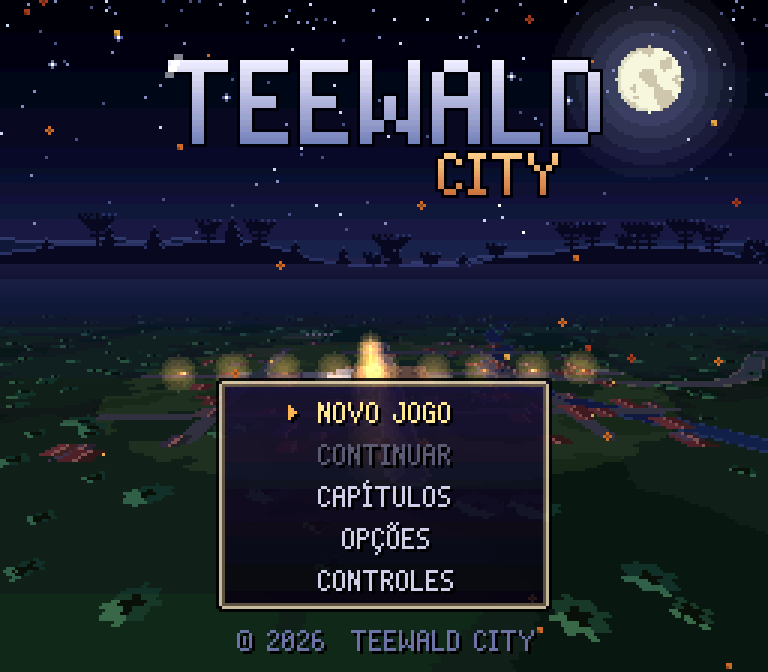
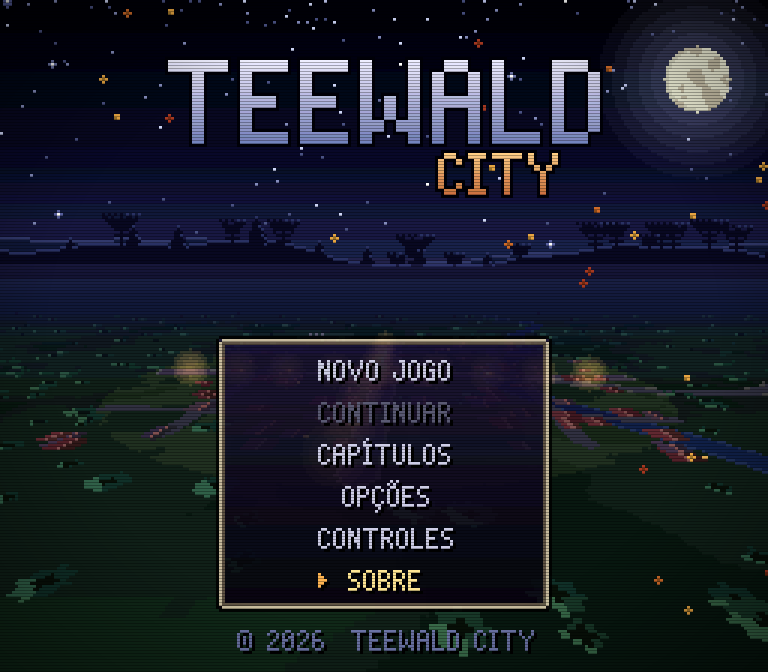
Atualização automática (2026-10-11 09:55) — 3 arquivo(s)
README.md
docs/img/sobre.png
docs/img/titulo-menu.png

diff --git a/README.md b/README.md
@@ -79,6 +79,7 @@ O ponto de partida foi uma pasta de capturas de tela de um jogo 3D (`ref/`, que 
 | 9/10, madrugada | Capítulo 2, com a lenda do Mão-Comprida, as sete fitas e o revólver. |
 | 9/10, noite | Capítulo 3, suporte completo a joystick e este README com os prints, feitos em sessões paralelas no mesmo repositório. |
 | 10/10 | Capítulos 4 a 7, até o fim da história. O capítulo 4 foi feito na sessão principal, e os capítulos 5, 6 e 7 por três agentes em paralelo, seguindo um roteiro técnico comum. Depois a sessão principal revisou e testou o jogo inteiro em sequência. |
+| 11/10 | Página Sobre, com os créditos e os links do autor, aberta pelo menu do título. |
 
 ### Ouvindo quem joga
 
@@ -114,11 +115,17 @@ Arno acorda caído numa rua de Teewald. A cidade continua linda, mas está vazia
 
 ### A tela-título
 
-Na tela-título há um voo em "Mode 7" sobre o mapa da cidade iluminada, e o logotipo entra girando e crescendo. O menu tem Novo Jogo, Continuar (que lembra o capítulo, as fitas e as balas), Capítulos, Opções e Controles.
+Na tela-título há um voo em "Mode 7" sobre o mapa da cidade iluminada, e o logotipo entra girando e crescendo. O menu tem Novo Jogo, Continuar (que lembra o capítulo, as fitas e as balas), Capítulos, Opções, Controles e Sobre.
 
 <p align="center">
   <img src="docs/img/titulo.png" width="49%" alt="Logotipo TEEWALD CITY sobre o mapa da cidade em Mode 7">
-  <img src="docs/img/titulo-menu.png" width="49%" alt="Menu principal com a lua cheia ao fundo">
+  <img src="docs/img/titulo-menu.png" width="49%" alt="Menu principal com a lua cheia ao fundo e o item Sobre selecionado">
+</p>
+
+O item **Sobre** abre numa aba nova a página [sobre.html](sobre.html), com os créditos e os links do autor, Fabiano Kunst: site, Instagram, LinkedIn, Behance, ArtStation, FKweb, WhatsApp, e-mail e currículo. É uma página HTML comum, mas no visual do jogo. O céu estrelado, a lua, a serra com araucárias, as luzes da cidade, as folhas de outono, o logotipo e a fonte em pixel são desenhados pelo mesmo código do jogo, e as janelas imitam as caixas dos menus. A página tem português e inglês e fecha com ESC (ou com o botão B do controle), voltando ao jogo.
+
+<p align="center">
+  <img src="docs/img/sobre.png" width="640" alt="Página Sobre: logotipo TEEWALD CITY sob a lua, janela com o nome Fabiano Kunst e janela de links, sobre a serra com araucárias">
 </p>
 
 ### A abertura
@@ -961,8 +968,11 @@ O arquivo `.nojekyll` desativa o processamento Jekyll do Pages. A pasta `ref/` (
 
 ```
 index.html          página e ordem de carregamento dos scripts
+sobre.html          página Sobre: créditos e links do autor (aberta pelo menu do título)
 manifest.webmanifest, icon.svg   instalação na tela de início do celular
 css/style.css       posição da tela, filtro CRT, visual do controle na tela
+css/sobre.css       visual da página Sobre (janelas e cores dos menus do jogo)
+js/sobre.js         página Sobre: céu, serra e folhas animados, logotipo e títulos na fonte do jogo
 js/core.js          utilidades, cores 15-bit, RNG, opções salvas, níveis de dificuldade
 js/gfx.js           canvas, buffers de pixel, sprites, rotação, ruído
 js/font.js          fonte bitmap com acentos do português e ícones dos botões
